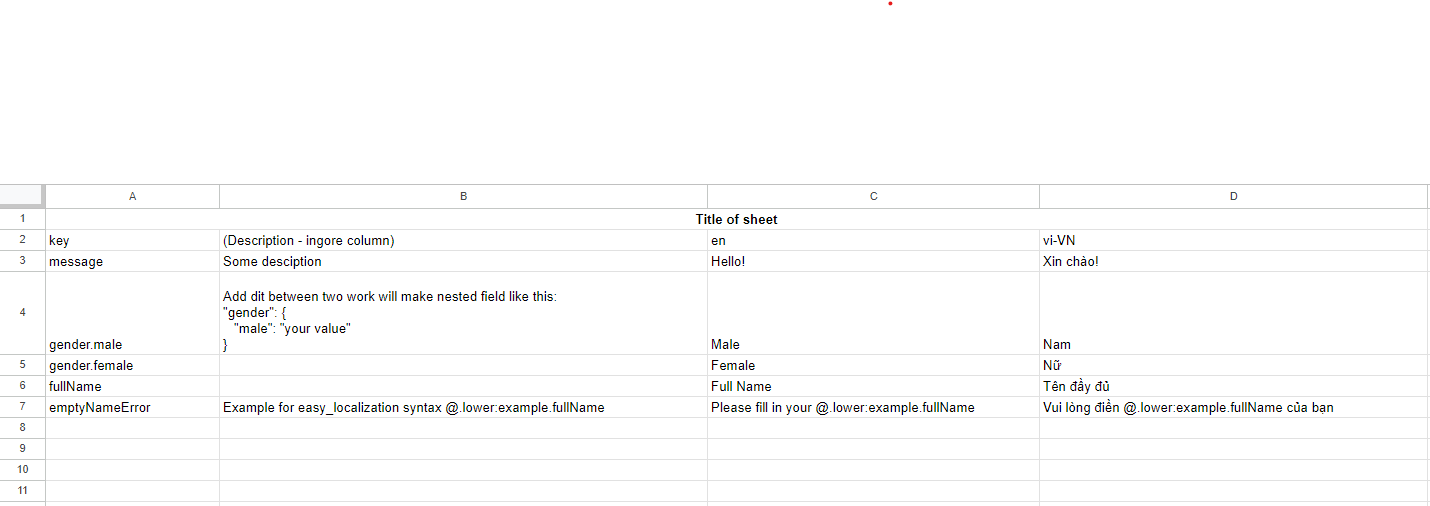
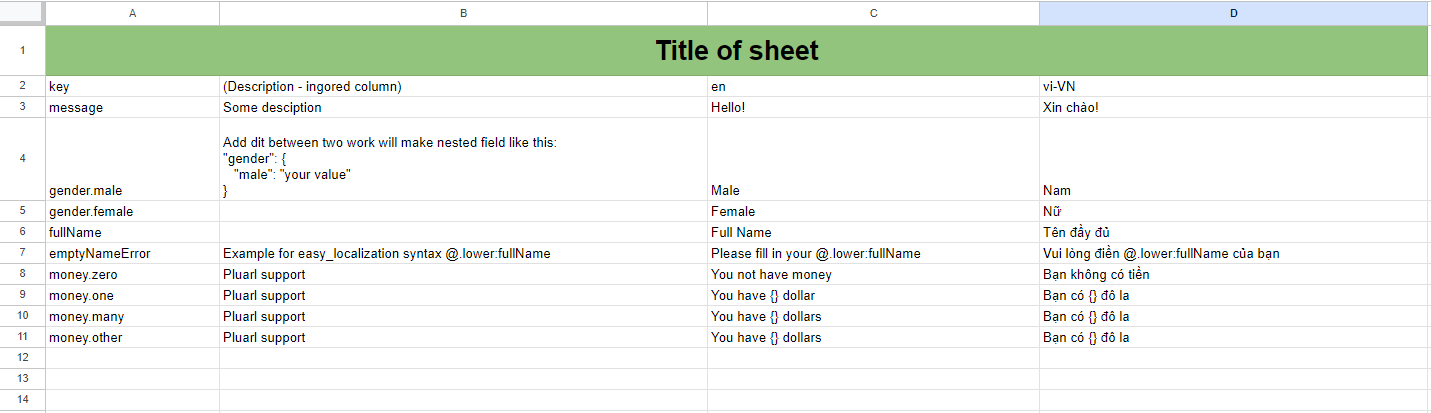
Update example

diff --git a/test/easy_localization_sheet_test.dart b/test/easy_localization_sheet_test.dart
@@ -12,7 +12,7 @@ const expectedResultInEn = '''{
     "female": "Female"
   },
   "fullName": "Full Name",
-  "emptyNameError": "Please fill in your @.lower:example.fullName",
+  "emptyNameError": "Please fill in your @.lower:fullName",
   "money": {
     "zero": "You not have money",
     "one": "You have {} dollar",

diff --git a/README.md b/README.md
@@ -48,4 +48,4 @@ gender.female
     "female": "Female"
 }
 ```
-[Visit example sheet for more detail](https://docs.google.com/spreadsheets/d/1p6oQw6BKObb3RU_fIWskJjofRzEb01cfzfNE14Px4nw/edit#gid=0).
+[Visit example sheet for more detail](https://docs.google.com/spreadsheets/d/1p6oQw6BKObb3RU_fIWskJjofRzEb01cfzfNE14Px4nw/edit#gid=0)
